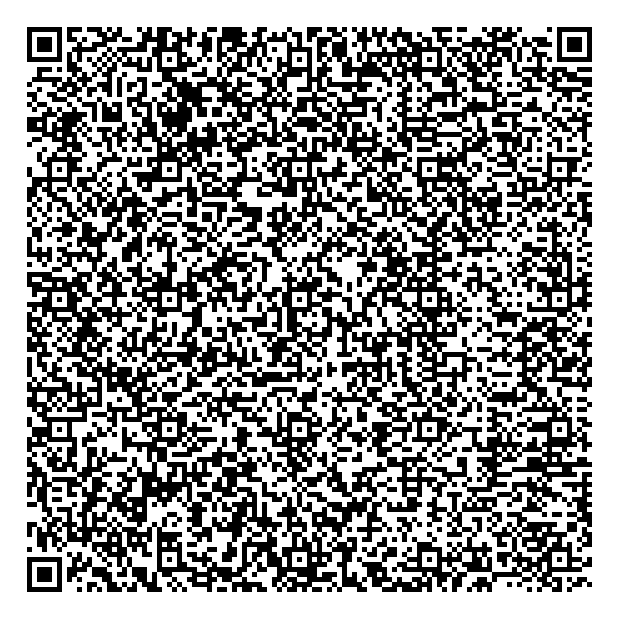
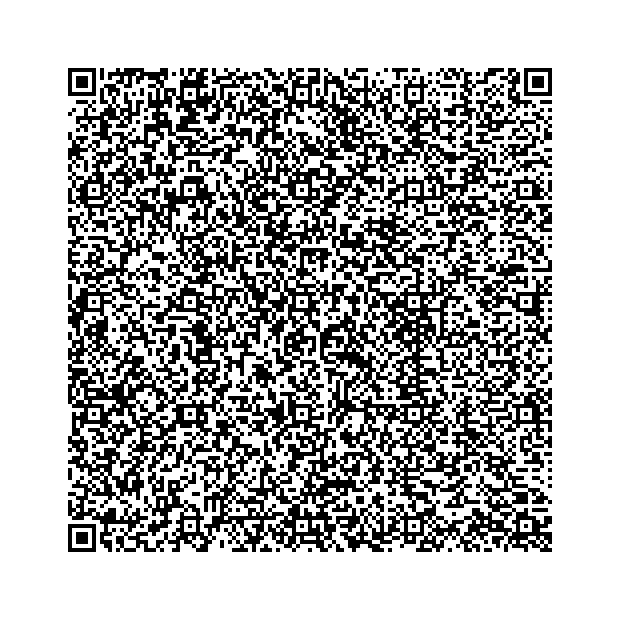
ajout obs et epr pour qrCode

diff --git a/src/Repository/UserRepository.php b/src/Repository/UserRepository.php
@@ -6,6 +6,7 @@ use App\Entity\User;
 use App\Entity\Competition;
 use App\Entity\Cavalier;
 use App\Entity\Epreuve;
+use App\Entity\Obstacle;
 use Doctrine\Bundle\DoctrineBundle\Repository\ServiceEntityRepository;
 use Doctrine\Persistence\ManagerRegistry;
 use Symfony\Component\Security\Core\Exception\UnsupportedUserException;
@@ -72,14 +73,19 @@ class UserRepository extends ServiceEntityRepository implements PasswordUpgrader
         $query = $entityManager->createQueryBuilder()
             ->select('u')
             ->addSelect('c')
+            ->addSelect('e')
+            ->addSelect('o')
             ->addSelect('ca')
             ->from('App\Entity\User', 'u')
             ->innerJoin('u.competition', 'c')
             ->leftJoin('c.cavalier', 'ca')
+            ->leftJoin('c.epreuves', 'e')
+            ->leftJoin('e.obstacle', 'o')
             ->where('c.date = CURRENT_DATE()')
             ->andWhere('u.id = :id')
             ->setParameter('id', $userId)
             ->getQuery();
+
         return $query->getResult();
     }
 

diff --git a/src/Controller/DefaultController.php b/src/Controller/DefaultController.php
@@ -58,7 +58,7 @@ class DefaultController extends AbstractController
     /**
      * @Route("/qwerCodeJuge/{id}", name="qwerCodeJuge")
      */
-    public function qwerCodeJuge(EntityManagerInterface $em, KernelInterface $kernel, SerializerInterface $serializer,$id): Response
+    public function qwerCodeJuge(EntityManagerInterface $em, KernelInterface $kernel, SerializerInterface $serializer, $id): Response
     {
         $user = $this->getUser();
         if (!$user) {
@@ -98,9 +98,9 @@ class DefaultController extends AbstractController
             // }
 
             // $jsonContent = new JsonResponse($datas);
-
+            //dd($juges);
             $jsonContent = $serializer->serialize($juges, 'json', ['groups' => 'json', 'json_encode_options' => JSON_UNESCAPED_UNICODE]);
-
+            // dd($jsonContent);
             // Générer le code QR avec le contenu JSON
             $qrCode = Builder::create()
                 ->writer(new PngWriter())

diff --git a/src/Entity/Obstacle.php b/src/Entity/Obstacle.php
@@ -6,6 +6,7 @@ use App\Repository\ObstacleRepository;
 use Doctrine\Common\Collections\ArrayCollection;
 use Doctrine\Common\Collections\Collection;
 use Doctrine\ORM\Mapping as ORM;
+use Symfony\Component\Serializer\Annotation\Groups;
 
 #[ORM\Entity(repositoryClass: ObstacleRepository::class)]
 class Obstacle
@@ -15,6 +16,7 @@ class Obstacle
     #[ORM\Column]
     private ?int $id = null;
 
+    #[Groups(['json'])]
     #[ORM\Column(length: 20)]
     private ?string $nom = null;
 
@@ -24,7 +26,7 @@ class Obstacle
     #[ORM\ManyToMany(targetEntity: Epreuve::class, mappedBy: 'obstacle')]
     private Collection $epreuves;
 
-    #[ORM\OneToOne(mappedBy: 'id_obstacle', cascade: ['persist', 'remove'])]
+    #[ORM\OneToOne(mappedBy: 'obstacle', cascade: ['persist', 'remove'])]
     private ?Note $note = null;
 
     public function __construct()

diff --git a/src/Entity/Epreuve.php b/src/Entity/Epreuve.php
@@ -6,6 +6,7 @@ use App\Repository\EpreuveRepository;
 use Doctrine\Common\Collections\ArrayCollection;
 use Doctrine\Common\Collections\Collection;
 use Doctrine\ORM\Mapping as ORM;
+use Symfony\Component\Serializer\Annotation\Groups;
 
 #[ORM\Entity(repositoryClass: EpreuveRepository::class)]
 class Epreuve
@@ -14,7 +15,8 @@ class Epreuve
     #[ORM\GeneratedValue]
     #[ORM\Column]
     private ?int $id = null;
-
+    
+    #[Groups(['json'])]
     #[ORM\Column(length: 20)]
     private ?string $nom = null;
 
@@ -30,6 +32,7 @@ class Epreuve
     #[ORM\ManyToMany(targetEntity: Parametrer::class, mappedBy: 'epreuve')]
     private Collection $parametrers;
 
+    #[Groups(['json'])]
     #[ORM\ManyToMany(targetEntity: Obstacle::class, inversedBy: 'epreuves')]
     private Collection $obstacle;
 

diff --git a/src/Entity/Competition.php b/src/Entity/Competition.php
@@ -44,6 +44,7 @@ class Competition
     #[ORM\OneToMany(mappedBy: 'competition', targetEntity: User::class)]
     private Collection $user;
 
+    #[Groups(['json'])]
     #[ORM\ManyToMany(targetEntity: Epreuve::class, mappedBy: 'competition')]
     private Collection $epreuves;
 
